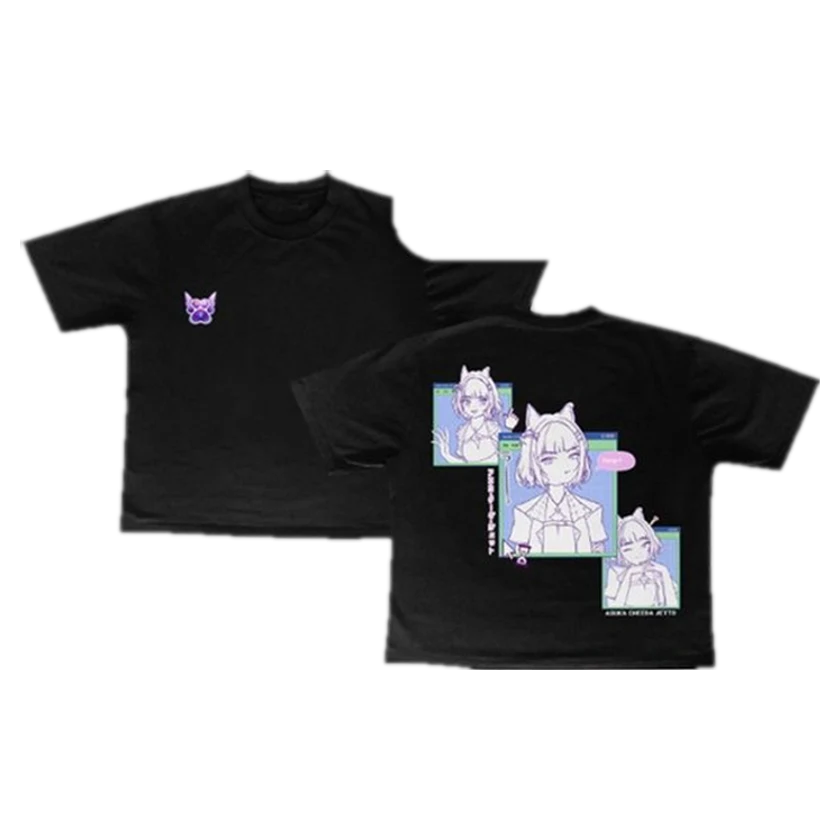
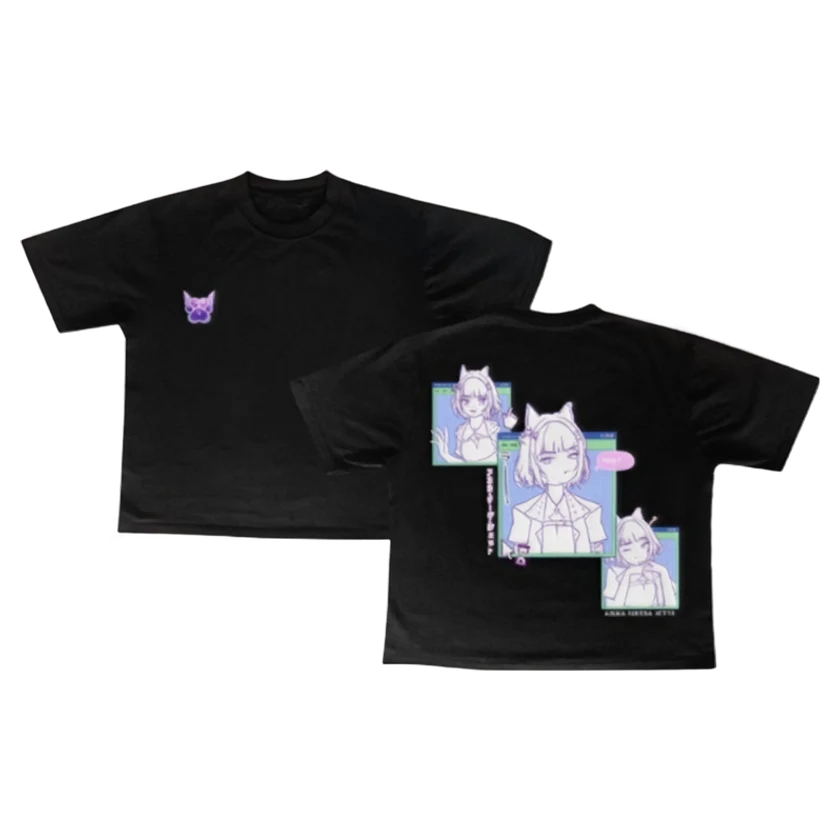
Polish the merch page: two sticker kinds, product motion and playful copy
- Stickers split into Hologram Sticker and Sticker Bening (ASJ-B-ST-2).
- Vet Jetto Photocard gets its photo; a few cards lean left at rest and
  swing right on hover. The LATHI photocard flips to a second picture on
  hover, and on touch screens every 2 seconds. New T-shirt photo.
- Taglines, OTS tooltip, stock lines and empty-cart copy in Jetto's voice,
  with a note under the total that delivery cost is checked by the admin.
- Sheet script seed updated with the new sticker.

The page stays hidden unless MERCH_ENABLED=true.

diff --git a/lib/products.js b/lib/products.js
@@ -1,15 +1,77 @@
 // Catalog. Prices are whole rupiah. Swap the body of getProducts() for a Google Sheet fetch later.
+// `tagline` is the one-line joke shown on the card (keep it under ~50 characters); `description` is the longer
+// version for a detail view. Names, SKUs and prices stay plain on purpose, so nobody buys the wrong thing.
 const PRODUCTS = [
-  { sku: 'ASJ-B-GK-1', name: 'Jetto Wagging Tail Keychain', type: 'Gantungan Kunci', po: 65000, ots: 70000, stock: 20, img: '/merch/asj-b-gk-1.webp' },
-  { sku: 'ASJ-B-GK-2', name: 'Adopt Me 3D Clicker Keychain', type: 'Gantungan Kunci', po: 80000, ots: 85000, stock: 20, img: '/merch/asj-b-gk-2.webp' },
-  { sku: 'ASJ-B-LA-1', name: 'Asukayang Totebag', type: 'Lainnya', po: 100000, ots: 105000, stock: 25, img: '/merch/asj-b-la-1.webp' },
-  { sku: 'ASJ-B-PC-1', name: 'Asuka Jetto LATHI Lenticular Photocard', type: 'Photocard', po: 35000, ots: 40000, stock: 50, img: '/merch/asj-b-pc-1.webp' },
-  { sku: 'ASJ-B-LA-2', name: 'Paw Friend Tumbler', type: 'Lainnya', po: 75000, ots: 80000, stock: 20, img: '/merch/asj-b-la-2.webp' },
-  { sku: 'ASJ-B-ST-1', name: 'Asuka Jetto Stickers', type: 'Stiker', po: 5000, ots: 5000, stock: 250, img: '/merch/asj-b-st-1.webp' },
-  // Assumption: the 8 pcs are shared by every size (not confirmed with the admin).
-  { sku: 'ASJ-B-PA-1', name: 'Jetto x Daekan Boxy T-Shirt', type: 'Pakaian', po: 190000, ots: 200000, stock: 8, img: '/merch/asj-b-pa-1.webp', sizes: ['M', 'L', 'XL'] },
-  { sku: 'ASJ-B-SD-1', name: 'Swing Cheeda Acrylic Standee', type: 'Standee', po: 190000, ots: 195000, stock: 20, img: '/merch/asj-b-sd-1.webp' },
-  { sku: 'ASJ-B-PC-2', name: 'Vet Jetto Photocard', type: 'Photocard', po: 20000, ots: 25000, stock: 50, img: '/merch/asj-b-pc-2.webp' },
+  {
+    sku: 'ASJ-B-GK-1', name: 'Jetto Wagging Tail Keychain', type: 'Gantungan Kunci', po: 65000, ots: 70000, stock: 20,
+    img: '/merch/asj-b-gk-1.webp',
+    tilt: { rest: -7, hover: 4 },
+    tagline: 'Ekornya jujur, goyang tiap kamu lewat ^^',
+    description: 'Selain nemenin kamu kemana-mana, ekorku bisa goyang-goyang lho. Jujur, ini satu-satunya ekor yang jujur sama perasaannya ^^',
+  },
+  {
+    sku: 'ASJ-B-GK-2', name: 'Adopt Me 3D Clicker Keychain', type: 'Gantungan Kunci', po: 80000, ots: 85000, stock: 20,
+    img: '/merch/asj-b-gk-2.webp',
+    tilt: { rest: -7, hover: 4 },
+    tagline: 'Klik-klik murah, lebih hemat dari terapi',
+    description: 'Keychain clicker yang bisa kamu klik-klik tiap hari. Bunyinya cetak-cetok, stres kerjaan ikut kepencet pergi. Lebih murah dari terapi, wkwk.',
+  },
+  {
+    // TODO: material and size are not confirmed, so the description does not mention them. The 4 small pins come from the owner.
+    sku: 'ASJ-B-LA-1', name: 'Asukayang Totebag', type: 'Lainnya', po: 100000, ots: 105000, stock: 25,
+    img: '/merch/asj-b-la-1.webp',
+    tagline: 'Muat belanjaan, plus 4 pin kecil lucu',
+    description: 'Totebag buat nemenin kamu kemana-mana, dari ke kampus sampai ke event. Muat buat barang bawaan, muat juga buat merch lainnya, wkwk. Di dalam paketnya ada 4 pin kecil juga lho, lumayan buat pamer ke teman~',
+  },
+  {
+    sku: 'ASJ-B-PC-1', name: 'Asuka Jetto LATHI Lenticular Photocard', type: 'Photocard', po: 35000, ots: 40000, stock: 50,
+    img: '/merch/asj-b-pc-1.webp', imgHover: '/merch/asj-b-pc-1-hover.webp',
+    tilt: { rest: -7, hover: 4 },
+    tagline: 'Miringin dikit, muka Jetto ganti',
+    description: 'Katanya cuma punya satu pose? Salah dong! Lenticular Photocard ini punya dua muka, miringin dikit langsung ganti. Dua muka, tapi tetap satu hati kok.',
+  },
+  {
+    sku: 'ASJ-B-LA-2', name: 'Paw Friend Tumbler', type: 'Lainnya', po: 75000, ots: 80000, stock: 20,
+    img: '/merch/asj-b-la-2.webp',
+    // TODO: capacity and material are not confirmed, so the description does not mention them.
+    tagline: 'Minum air dulu, ditemenin tulang lucu',
+    description: 'Tumbler dengan gambar aku dan tulang-tulang kecil yang berserakan di sekelilingnya. Sering lupa minum? Tenang, ada Paw Friend yang ngingetin tiap kamu liat dia ^^ Satu-satunya teman cakar yang nggak pernah ninggalin kamu.',
+  },
+  {
+    sku: 'ASJ-B-ST-1', name: 'Hologram Sticker', type: 'Stiker', po: 5000, ots: 5000, stock: 250,
+    img: '/merch/asj-b-st-1.webp',
+    tilt: { rest: -7, hover: 4 },
+    tagline: 'Ekspresi random, cocok sama hidupmu',
+    description: 'Ekspresi kocak kayak kehidupanmu ini ya! Tempel di tempat yang kamu suka: laptop, helm, atau botol minum. Jidat temanmu jangan, yang itu jangan~',
+  },
+  {
+    // Stock is a placeholder (same as the hologram set); set the real number in the Katalog sheet.
+    sku: 'ASJ-B-ST-2', name: 'Sticker Bening', type: 'Stiker', po: 5000, ots: 5000, stock: 250,
+    img: '/merch/asj-b-st-2.webp',
+    tilt: { rest: -7, hover: 4 },
+    tagline: 'Bening, lentur, tempel di mana aja',
+    description: 'Yang di sebelah ini bening, tau kan bening? Kayak niat baikku, hahaha. Tapi serius, stikernya bening, lentur, dan bisa ditempel di mana-mana.',
+  },
+  {
+    // Assumption: the 8 pcs are shared by every size (not confirmed with the admin).
+    sku: 'ASJ-B-PA-1', name: 'Jetto x Daekan Boxy T-Shirt', type: 'Pakaian', po: 190000, ots: 200000, stock: 8,
+    img: '/merch/asj-b-pa-1.webp', sizes: ['M', 'L', 'XL'],
+    tagline: 'Exclusive item, jangan sampai kehabisan',
+    description: 'Jetto x Daekan hadir di CF23, tersedia size M/L/XL. Jangan sampai kehabisan ya, sayang! Ini exclusive item lho, nanti nyesel malah baju orang lain yang kamu lirik terus~',
+  },
+  {
+    sku: 'ASJ-B-SD-1', name: 'Swing Cheeda Acrylic Standee', type: 'Standee', po: 190000, ots: 195000, stock: 20,
+    img: '/merch/asj-b-sd-1.webp',
+    tagline: 'Ngayun bareng, galau pun ikut terbang',
+    description: 'Mengayun-ayun, bikin kamu ga bakal manyun lagi~ Acrylic Standee ini bisa mengayun sambil nemenin kamu yang lagi ngelamun. Alias teman overthinking terbaik.',
+  },
+  {
+    sku: 'ASJ-B-PC-2', name: 'Vet Jetto Photocard', type: 'Photocard', po: 20000, ots: 25000, stock: 50,
+    img: '/merch/asj-b-pc-2.webp',
+    tilt: { rest: -7, hover: 4 }, // leans left, swings a little to the right on hover
+    tagline: 'Dokter hewan virtual, tanpa suntik',
+    description: 'Aku virtual vet pertama di Indonesia lho! Kapan lagi kamu bisa koleksi Photocard V-Vet satu ini? Dijamin tanpa suntik, tanpa antre.',
+  },
 ];
 
 export const TYPES = ['Semua', 'Gantungan Kunci', 'Photocard', 'Stiker', 'Pakaian', 'Standee', 'Lainnya'];

diff --git a/app/merch/merch.css b/app/merch/merch.css
@@ -98,7 +98,7 @@
 .m-filters button[aria-pressed='true'] { background: var(--lav); color: var(--ink); border-color: var(--lav); font-weight: 700; }
 
 /* ---------- product cards ---------- */
-.m-grid { display: grid; grid-template-columns: repeat(auto-fill, minmax(220px, 1fr)); gap: 16px; }
+.m-grid { display: grid; grid-template-columns: repeat(auto-fill, minmax(236px, 1fr)); gap: 16px; }
 .m-card { background: var(--chassis); border: 1px solid rgba(193, 161, 207, 0.25); border-radius: var(--r); overflow: hidden; display: flex; flex-direction: column; }
 .m-card.is-picked { outline: 2px solid var(--lav); outline-offset: -1px; }
 /* The photo is a transparent cut-out standing on a small stage: lavender glow, checkered floor, soft shadow.
@@ -124,10 +124,12 @@
   transition: transform 0.6s var(--lift), opacity 0.6s var(--lift);
 }
 .m-stage-img {
-  position: absolute; left: 8%; top: 7%; width: 84%; height: 79%; object-fit: contain; display: block;
+  position: absolute; left: 8%; top: 10%; width: 84%; height: 76%; object-fit: contain; display: block;
   filter: drop-shadow(0 6px 10px rgba(12, 8, 18, 0.45));
+  /* --rot / --rot-hover let a single card lean at rest and swing the other way while lifted. */
+  transform: translateY(0) scale(1) rotate(var(--rot, 0deg));
   transform-origin: 50% 90%; will-change: transform;
-  transition: transform 0.6s var(--lift);
+  transition: transform 0.6s var(--lift), opacity 0.5s ease;
 }
 .m-card-nophoto {
   position: absolute; left: 14%; top: 12%; width: 72%; height: 66%; display: flex; flex-direction: column; align-items: center; justify-content: center; gap: 4px; padding: 16px;
@@ -136,16 +138,16 @@
 }
 @media (hover: hover) {
   .m-card:not(.is-out):hover { border-color: rgba(193, 161, 207, 0.6); }
-  .m-card:not(.is-out):hover .m-stage-img { transform: translateY(-9px) scale(1.07); }
+  .m-card:not(.is-out):hover .m-stage-img { transform: translateY(-9px) scale(1.07) rotate(var(--rot-hover, 0deg)); }
   .m-card:not(.is-out):hover .m-stage-shadow { transform: scaleX(0.8); opacity: 0.55; }
   .m-card:not(.is-out):hover .m-card-photo::before { opacity: 1; }
 }
-.m-card:not(.is-out):has(:focus-visible) .m-stage-img { transform: translateY(-9px) scale(1.07); }
+.m-card:not(.is-out):has(:focus-visible) .m-stage-img { transform: translateY(-9px) scale(1.07) rotate(var(--rot-hover, 0deg)); }
 .m-card:not(.is-out):has(:focus-visible) .m-stage-shadow { transform: scaleX(0.8); opacity: 0.55; }
 .m-card:not(.is-out):has(:focus-visible) .m-card-photo::before { opacity: 1; }
 @media (prefers-reduced-motion: reduce) {
   .m-card, .m-card-photo::before, .m-stage-shadow, .m-stage-img { transition: none; }
-  .m-card:hover .m-stage-img, .m-card:has(:focus-visible) .m-stage-img { transform: none !important; }
+  .m-card:hover .m-stage-img, .m-card:has(:focus-visible) .m-stage-img { transform: rotate(var(--rot, 0deg)) !important; }
 }
 .m-chip-cart { position: absolute; top: 10px; right: 10px; background: var(--lav); color: var(--ink); font-family: var(--mono); font-size: 11px; font-weight: 700; padding: 4px 8px; border-radius: var(--r); }
 .m-chip-type { position: absolute; top: 10px; left: 10px; background: var(--ink); color: var(--lav-hi); font-family: var(--mono); font-size: 11px; font-weight: 700; letter-spacing: 0.06em; padding: 4px 8px; border-radius: var(--r); }
@@ -359,3 +361,49 @@
 .m-ticket-rows dt { color: var(--ink-mut); }
 .m-ticket-pay { margin-top: 12px; background: var(--paper-2); }
 .m-ticket-foot { padding: 12px 20px 16px; display: flex; flex-direction: column; gap: 2px; align-items: center; text-align: center; font-family: var(--mono); font-size: 11px; letter-spacing: 0.04em; color: var(--ink-mut); }
+
+/* Lenticular card: the second picture sits exactly on top and fades in while hovered. The first one stays opaque
+   underneath, so the crossfade never dips in brightness. */
+.m-stage-alt { opacity: 0; }
+@media (hover: hover) {
+  .m-card:not(.is-out):hover .m-stage-alt { opacity: 1; }
+}
+.m-card:not(.is-out):has(:focus-visible) .m-stage-alt { opacity: 1; }
+@media (prefers-reduced-motion: reduce) {
+  .m-stage-img { transition: none; }
+}
+
+/* Touch screens have no hover, so the lenticular card flips by itself: 2 s on each picture, fading between them. */
+@keyframes m-lenti {
+  0%, 40% { opacity: 0; }
+  50%, 90% { opacity: 1; }
+  100% { opacity: 0; }
+}
+@media (hover: none) {
+  .m-stage-alt { animation: m-lenti 4s ease-in-out infinite; }
+}
+@media (hover: none) and (prefers-reduced-motion: reduce) {
+  .m-stage-alt { animation: none; }
+}
+
+/* Shown under the totals of a delivery order: the shipping cost is not part of the total yet. */
+.m-ship-note { padding: 10px 12px; border: 1px dashed var(--stamp); border-radius: var(--r); background: rgba(122, 77, 0, 0.07); color: var(--stamp); font-size: 13px; font-weight: 600; line-height: 1.4; }
+.m-ship-note-dialog { margin: 0 28px 16px; }
+@media (max-width: 480px) { .m-ship-note-dialog { margin-inline: 18px; } }
+
+/* ---------- card copy: tagline and the OTS tooltip ---------- */
+.m-tagline {
+  margin: 0; min-height: 1.4em; font-size: 12px; line-height: 1.4; letter-spacing: -0.005em; color: var(--soft);
+  display: -webkit-box; -webkit-box-orient: vertical; -webkit-line-clamp: 1; line-clamp: 1; overflow: hidden; text-overflow: ellipsis;
+}
+.m-price { position: relative; }
+.m-price .m-ots-wrap { position: static; font-size: 12px; }
+.m-ots { margin: -6px -2px; padding: 6px 2px; font: inherit; color: inherit; background: none; border: 0; cursor: help; text-decoration: underline dotted; text-underline-offset: 3px; }
+.m-price .m-ots-tip {
+  position: absolute; left: 0; right: 0; bottom: calc(100% + 6px); z-index: 5; padding: 8px 10px; border-radius: var(--r);
+  background: var(--paper); color: var(--ink); font-family: var(--sans); font-size: 12px; font-weight: 600; line-height: 1.4; box-shadow: 0 6px 18px rgba(0, 0, 0, 0.4);
+  opacity: 0; visibility: hidden; transform: translateY(4px); pointer-events: none;
+  transition: opacity 0.2s ease, transform 0.2s ease, visibility 0.2s;
+}
+.m-price .m-ots-tip.is-open { opacity: 1; visibility: visible; transform: none; }
+@media (prefers-reduced-motion: reduce) { .m-price .m-ots-tip { transition: none; } }

diff --git a/components/Merch/ProductCard.jsx b/components/Merch/ProductCard.jsx
@@ -1,7 +1,34 @@
 'use client';
 
-import { COPY, fmt } from '@/lib/merch-copy';
+import { useId, useState } from 'react';
+import { COPY, fmt, getStockLabel } from '@/lib/merch-copy';
 import { rp, lineKey } from '@/lib/po-core';
+
+// "OTS" explains itself: a tooltip that opens on hover, on keyboard focus and on tap, and closes with Escape.
+function OtsHint() {
+  const [open, setOpen] = useState(false);
+  const id = useId();
+  return (
+    <span className="m-ots-wrap">
+      <button
+        type="button"
+        className="m-ots"
+        aria-describedby={id}
+        onMouseEnter={() => setOpen(true)}
+        onMouseLeave={() => setOpen(false)}
+        onFocus={() => setOpen(true)}
+        onBlur={() => setOpen(false)}
+        onClick={() => setOpen((v) => !v)}
+        onKeyDown={(e) => e.key === 'Escape' && setOpen(false)}
+      >
+        {COPY.ots}
+      </button>
+      <span id={id} role="tooltip" className={`m-ots-tip${open ? ' is-open' : ''}`}>
+        {COPY.otsTip}
+      </span>
+    </span>
+  );
+}
 
 export default function ProductCard({ p, cart, size, onSize, onChange }) {
   const sizes = p.sizes || null;
@@ -13,26 +40,22 @@ export default function ProductCard({ p, cart, size, onSize, onChange }) {
   const soldOut = p.stock <= 0;
   const incOff = soldOut || used >= p.stock;
 
-  let stockText;
-  let stockClass = 'm-stock';
-  if (soldOut) {
-    stockText = COPY.stockOut;
-    stockClass += ' is-out';
-  } else if (p.stock <= 10) {
-    stockText = fmt(COPY.stockLow, { n: left, m: p.stock });
-    stockClass += ' is-low';
-  } else {
-    stockText = fmt(COPY.stockOk, { n: left });
-    stockClass += ' is-ok';
-  }
+  const stock = getStockLabel(left, soldOut);
 
   return (
-    <article className={`m-card${used > 0 ? ' is-picked' : ''}${soldOut ? ' is-out' : ''}`}>
+    <article
+      className={`m-card${used > 0 ? ' is-picked' : ''}${soldOut ? ' is-out' : ''}`}
+      style={p.tilt ? { '--rot': `${p.tilt.rest}deg`, '--rot-hover': `${p.tilt.hover}deg` } : undefined}
+    >
       <div className="m-card-photo">
         <span className="m-stage-floor" aria-hidden="true" />
         <span className="m-stage-shadow" aria-hidden="true" />
         {p.img ? (
-          <img className="m-stage-img" src={p.img} alt={p.name} width={840} height={840} loading="lazy" decoding="async" />
+          <>
+            <img className="m-stage-img" src={p.img} alt={p.name} width={840} height={840} loading="lazy" decoding="async" />
+            {/* Lenticular cards flip to a second picture while hovered. */}
+            {p.imgHover && <img className="m-stage-img m-stage-alt" src={p.imgHover} alt="" width={840} height={840} loading="lazy" decoding="async" aria-hidden="true" />}
+          </>
         ) : (
           <div className="m-card-nophoto" role="img" aria-label={`${COPY.photoMissing}: ${p.name}`}>
             <span>[FOTO]</span>
@@ -51,15 +74,16 @@ export default function ProductCard({ p, cart, size, onSize, onChange }) {
       <div className="m-card-info">
         <span className="m-sku">{p.sku}</span>
         <h3>{p.name}</h3>
+        <p className="m-tagline" title={p.tagline || undefined}>{p.tagline}</p>
         <div className="m-price">
           <strong>{rp(p.po)}</strong>
           {p.ots > p.po && (
             <span>
-              <s>{rp(p.ots)}</s> {COPY.ots}
+              <s>{rp(p.ots)}</s> <OtsHint />
             </span>
           )}
         </div>
-        <span className={stockClass}>{stockText}</span>
+        <span className={`m-stock is-${stock.tone}`}>{stock.text}</span>
       </div>
 
       {sizes && (
@@ -82,7 +106,7 @@ export default function ProductCard({ p, cart, size, onSize, onChange }) {
 
       <div className="m-stepper-row">
         <span>{sizes ? fmt(COPY.qtySize, { size: activeSize }) : COPY.qty}</span>
-        <div className="m-stepper">
+        <div className="m-stepper" title={COPY.qtyHint}>
           <button
             type="button"
             disabled={qty === 0}

diff --git a/lib/merch-copy.js b/lib/merch-copy.js
@@ -26,9 +26,12 @@ export const COPY = {
   secPick: 'Pilih Merch',
   filterAria: 'Filter jenis barang',
   ots: 'OTS',
-  stockOk: 'Stok {n} tersedia',
-  stockLow: 'Sisa {n} dari {m} · hampir habis!',
-  stockOut: 'Stok habis',
+  otsTip: 'OTS = harga On The Spot, khusus beli langsung di event',
+  qtyHint: 'Mau berapa, sayang?',
+  stockOk: 'Stok {n}, masih aman, santai~',
+  stockLow: 'Sisa {n}, jangan kebanyakan mikir ya',
+  stockInCart: 'Semua stoknya udah di keranjangmu~',
+  stockOut: 'Habis! Jetto lagi nangis di pojokan',
   soldOut: 'HABIS',
   photoMissing: 'Foto belum ada',
   inCart: '{n} di keranjang',
@@ -68,7 +71,7 @@ export const COPY = {
 
   sumTitle: 'Ringkasan',
   sumKicker: 'Resep pesanan',
-  sumEmpty: 'Belum ada merch yang dipilih. Tambahin dulu di bagian A, ya~',
+  sumEmpty: 'Keranjangnya sepi, kayak dompet akhir bulan',
   sumItems: 'Jumlah item',
   sumSaving: 'Hemat vs OTS',
   sumShipping: 'Ongkir',
@@ -80,6 +83,7 @@ export const COPY = {
   sumInfo: 'Stok berkurang otomatis tiap ada pesanan masuk. Total dan cara bayarnya dikabarin admin lewat WhatsApp setelah pesananmu masuk.',
   sumInfoShip: 'Stok berkurang otomatis tiap ada pesanan masuk. Total + ongkir dan cara bayarnya dikabarin admin lewat WhatsApp setelah ongkir dicek.',
   sumShippingShip: '+ dicek admin',
+  shipNote: 'Tarif ongkir belum dihitung untuk pengiriman, dicek admin terlebih dulu ya~ Total di atas baru harga merch.',
   adminHelp: 'Ada pertanyaan? Hubungi admin lewat WhatsApp.',
 
   rvKicker: 'Review pesanan · PO CF23',
@@ -105,4 +109,12 @@ export const COPY = {
 
 export function fmt(str, vars = {}) {
   return str.replace(/\{(\w+)\}/g, (_, k) => String(vars[k] ?? ''));
+}
+
+/** Stock line for a card. `left` is what can still be added (stock minus what is already in the cart). */
+export function getStockLabel(left, soldOut = left <= 0) {
+  if (soldOut) return { text: COPY.stockOut, tone: 'out' };
+  if (left <= 0) return { text: COPY.stockInCart, tone: 'low' };
+  if (left <= 5) return { text: fmt(COPY.stockLow, { n: left }), tone: 'low' };
+  return { text: fmt(COPY.stockOk, { n: left }), tone: 'ok' };
 }

diff --git a/components/Merch/ReviewDialog.jsx b/components/Merch/ReviewDialog.jsx
@@ -127,6 +127,7 @@ export default function ReviewDialog({ priced, contact, method, address, onClose
             <dd>{rp(subtotal)}</dd>
           </div>
         </dl>
+        {method === 'kirim' && <p className="m-ship-note m-ship-note-dialog" role="note">{COPY.shipNote}</p>}
 
         <p className="m-dialog-pay">{method === 'kirim' ? COPY.rvPayNoteShip : COPY.rvPayNote}</p>
         {error && (

diff --git a/components/Merch/Summary.jsx b/components/Merch/Summary.jsx
@@ -67,6 +67,7 @@ export default function Summary({ priced, method, canReview, onReview, adminWa }
               <dd>{rp(subtotal)}</dd>
             </div>
           </dl>
+          {method === 'kirim' && <p className="m-ship-note" role="note">{COPY.shipNote}</p>}
         </div>
 
         <button type="button" className="m-btn-primary" disabled={!canReview} onClick={onReview}>
